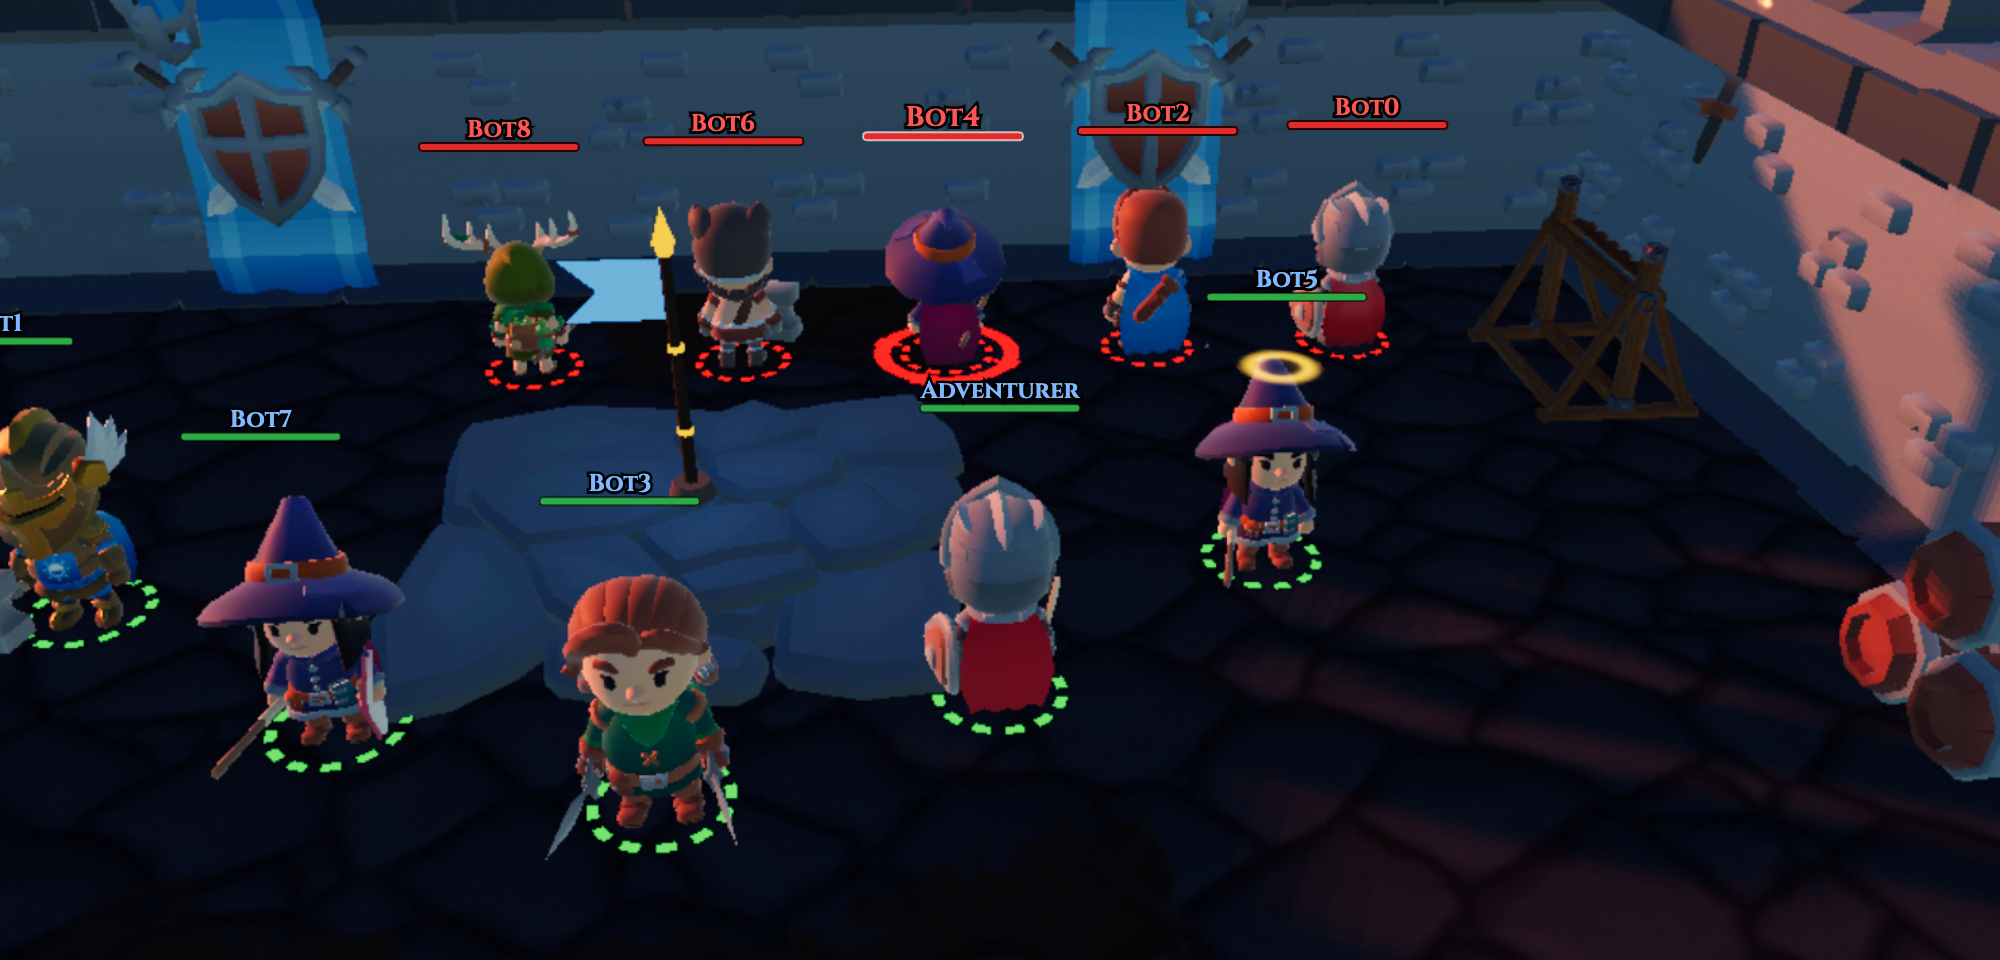
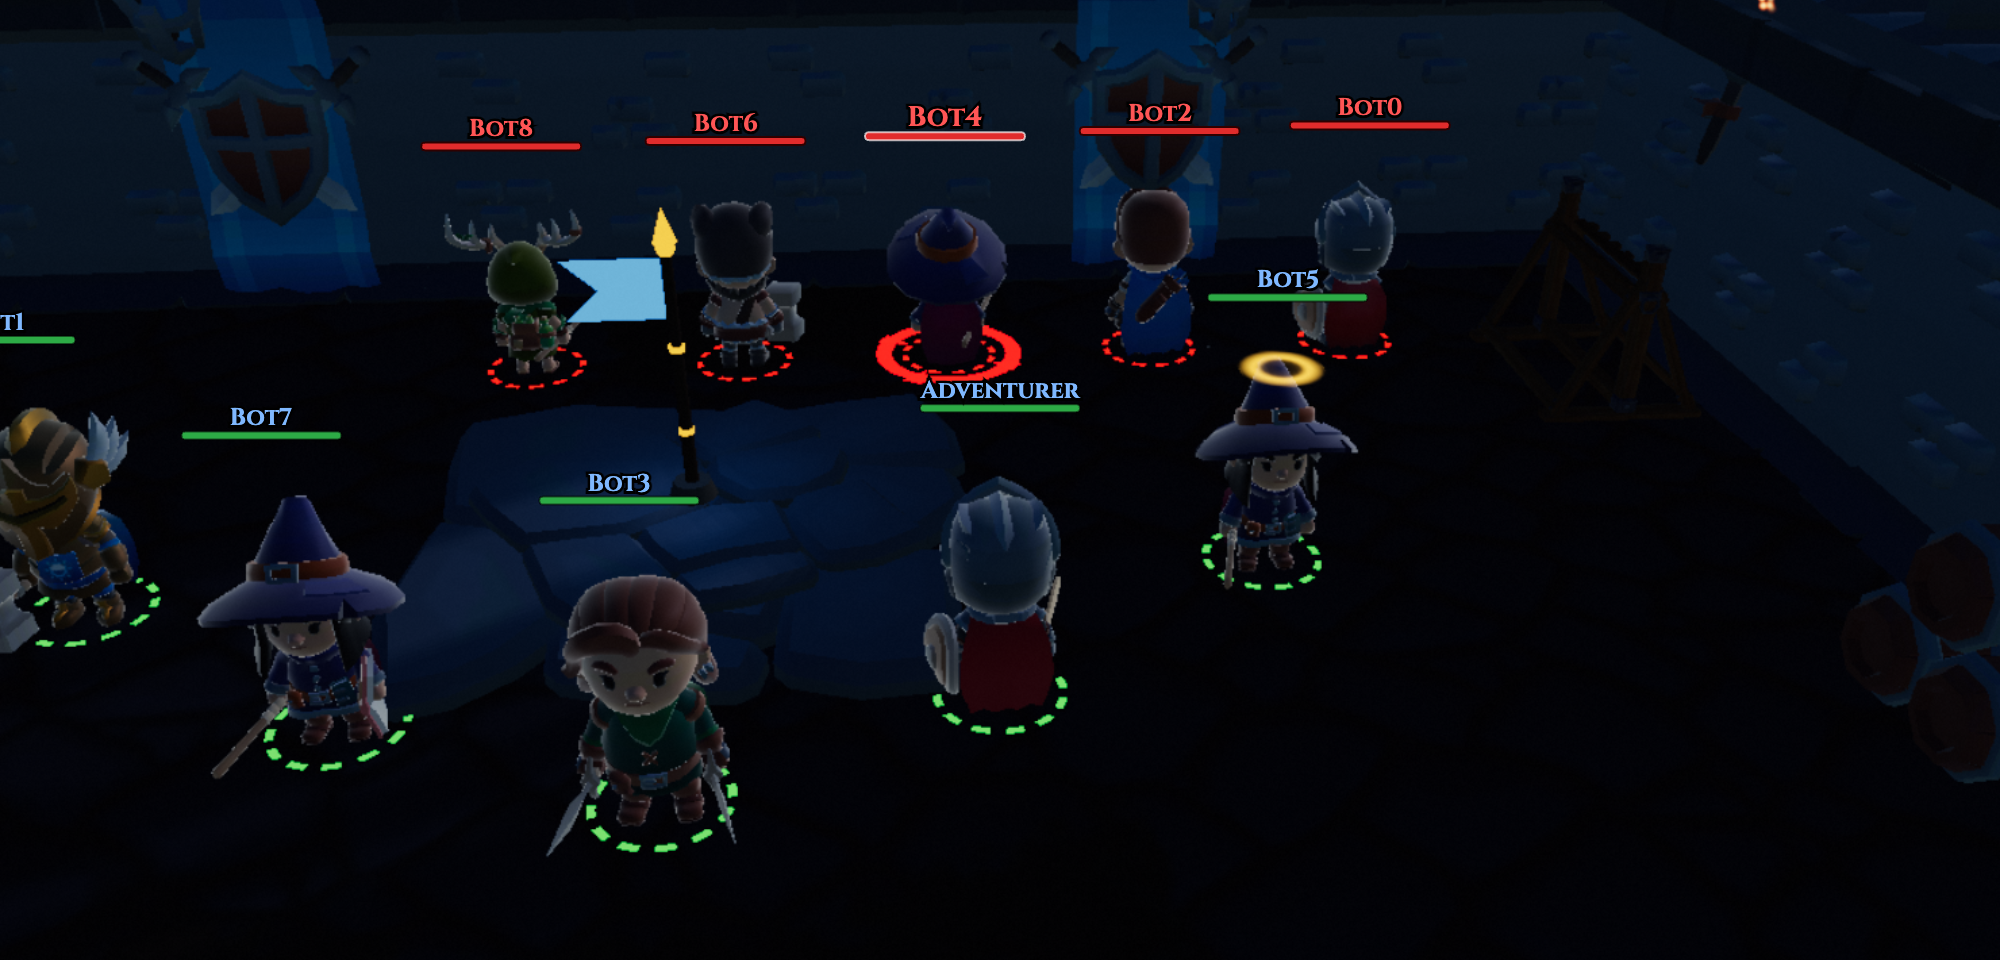
fix(render): thin the identity dashes, and drop the flag carrier ring
Two follow-ups from looking at the captured frames.

The dashed stroke goes from 0.12 to 0.09 yd, thinned inward again so the
outer edge still marks the unit's footprint. Legible at fighting distance
on every tier, but light enough to read as a hint under the feet rather
than a second reticle.

The flag's carrier ring is removed outright. It was a fourth ring at a
fighter's feet, competing with the identity and target rings this PR
exists to separate, and it was never load-bearing: the pole is already
tipped over the carrier's shoulder, which reads from any angle. The lean
is now the sole carry tell, and the tests say so instead of asserting a
ring toggle.

Screenshots re-shot for the thinner stroke, both frames recaptured under
matching light so the pair compares cleanly.

diff --git a/src/render/battleground_props.ts b/src/render/battleground_props.ts
@@ -7,13 +7,13 @@
 //
 // Graphics fairness: a carried flag's position is actionable info, so the flag
 // is plainly visible on EVERY tier (unlit pennant + pole), and the carried-state
-// dressing (the lean and the team-color carrier ring) is built and driven
+// dressing (the lean) is built and driven
 // unconditionally. High tiers only boost the pennant color for bloom pop
 // (cosmetic); the rune's point light is likewise cosmetic richness on top of
 // the always-on additive glow.
 //
 // Each built group carries `userData.bg` (BgObjectRefs): the per-frame handles
-// battleground_fx.ts animates (the flag lean pivot + carrier ring, the rune gem
+// battleground_fx.ts animates (the flag lean pivot, the rune gem
 // spinner). The refs point at child objects the renderer never touches; the
 // group's own position/rotation stay renderer-owned.
 import * as THREE from 'three';
@@ -41,9 +41,6 @@ const FLAG_GOLD = 0xd8b34a;
 const PENNANT_W = 1.15;
 const PENNANT_H = 0.75;
 const PENNANT_BLOOM_BOOST = 1.6; // high-tier color multiplier (bloom pop only)
-const CARRY_RING_INNER = 0.62;
-const CARRY_RING_OUTER = 0.95;
-const CARRY_RING_Y = 0.06;
 const RUNE_DISC_R = 1.05;
 const RUNE_DISC_Y = 0.08;
 const RUNE_GEM_SIZE = 0.42;
@@ -62,7 +59,6 @@ export type BgObjectRefs =
       team: number; // 0 = Crimson, 1 = Azure (bgInfo.match.flags index)
       color: number;
       lean: THREE.Group; // pole + pennant pivot: yawed to the carrier, tilted while carried
-      ring: THREE.Mesh; // team-color carrier ring, visible only while carried
     }
   | {
       kind: 'rune';
@@ -79,7 +75,6 @@ let flagFinialGeo: THREE.ConeGeometry | null = null;
 let flagFootGeo: THREE.CylinderGeometry | null = null;
 let flagBandGeo: THREE.CylinderGeometry | null = null;
 let flagCollarGeo: THREE.SphereGeometry | null = null;
-let carryRingGeo: THREE.RingGeometry | null = null;
 let runeDiscGeo: THREE.CircleGeometry | null = null;
 let runeGemGeo: THREE.BoxGeometry | null = null;
 
@@ -281,7 +276,9 @@ export function buildBattlegroundObject(
   // bg_flag (and any future bg_ object defaults to the flag body): pole +
   // team-color pennant, bright at every tier. The pole and pennant live on a
   // lean pivot the fx pass tips over the carrier's shoulder while carried; the
-  // ring under it flags the carrier at a glance from any angle.
+  // The carrier needs no ground ring of its own: the pole is already tipped
+  // over their shoulder, which reads from any angle, and a fourth ring at a
+  // fighter's feet only competes with the identity and target rings.
   flagPoleGeo ??= markSharedGeometry(
     new THREE.CylinderGeometry(FLAG_POLE_R * 0.85, FLAG_POLE_R * 1.15, FLAG_POLE_H, 10),
   );
@@ -306,9 +303,6 @@ export function buildBattlegroundObject(
   }
   // A spear point, not a bead: the silhouette that makes it read as a standard.
   flagFinialGeo ??= markSharedGeometry(new THREE.ConeGeometry(FLAG_FINIAL_R, FLAG_FINIAL_H, 10));
-  carryRingGeo ??= markSharedGeometry(
-    new THREE.RingGeometry(CARRY_RING_INNER, CARRY_RING_OUTER, 24),
-  );
   const lean = new THREE.Group();
   lean.rotation.order = 'YXZ'; // yaw to the carrier first, then tilt back
   const pole = new THREE.Mesh(flagPoleGeo, surfaceMat({ color: 0x4a3728, roughness: 0.85 }));
@@ -335,16 +329,11 @@ export function buildBattlegroundObject(
   finial.position.y = FLAG_POLE_H + FLAG_FINIAL_H / 2 + 0.08;
   lean.add(finial);
   group.add(lean);
-  const ring = new THREE.Mesh(carryRingGeo, glowMaterial(color));
-  ring.rotation.x = -Math.PI / 2;
-  ring.position.y = CARRY_RING_Y;
-  ring.visible = false; // battleground_fx shows it only while carried
-  group.add(ring);
   // Explicit team mapping, never a fallback: an unknown color gets NO fx refs
   // (static upright flag) rather than silently riding the wrong flag's state.
   const team = color === BG_TEAM_COLORS[0] ? 0 : color === BG_TEAM_COLORS[1] ? 1 : null;
   if (team !== null) {
-    group.userData.bg = { kind: 'flag', team, color, lean, ring } satisfies BgObjectRefs;
+    group.userData.bg = { kind: 'flag', team, color, lean } satisfies BgObjectRefs;
   }
   return { group, height: FLAG_POLE_H + FLAG_FINIAL_H + 0.2 };
 }

diff --git a/tests/battleground_fx_consumer.test.ts b/tests/battleground_fx_consumer.test.ts
@@ -2,7 +2,7 @@
 // from buildBattlegroundObject, with a burst-recording Vfx stub and a
 // hand-rolled BgInfo. This is the consumer-side coverage the pure-core test
 // (tests/battleground_fx.test.ts) cannot give: the userData.bg handshake, the
-// carrier ring toggling, lean apply/reset, gem pose application, burst
+// lean apply/reset, gem pose application, burst
 // anchors/colors per transition, and the track-invalidation rules. The BgInfo
 // fixture shape is identical for the offline Sim and the wire mirror (one
 // facet type), so a single fixture covers both worlds.
@@ -137,11 +137,10 @@ describe('BattlegroundFx.update', () => {
     expect(gem.rotation.y).toBe(spun); // early return: untouched
   });
 
-  it('toggles the carrier ring and lean with the carried state, yawed to the carrier', () => {
+  it('leans the pole over the carrier and resets it on drop, yawed to the carrier', () => {
     const h = makeHarness();
     const crimson = h.refs(h.crimsonFlag.group);
     h.fx.update(0.1);
-    expect(crimson.ring.visible).toBe(false);
     expect(crimson.lean.rotation.x).toBe(0);
     // an azure raider (pid 55) picks up the crimson flag
     const carrier = {
@@ -150,7 +149,8 @@ describe('BattlegroundFx.update', () => {
     h.views.set(55, carrier as never);
     h.sim.bgInfo = bgInfo([flagInfo('carried', 55), flagInfo('home')]);
     h.fx.update(0.2);
-    expect(crimson.ring.visible).toBe(true);
+    // The lean IS the carry tell now: the pole tips over the carrier's shoulder
+    // and there is no ground ring beneath them any more.
     expect(crimson.lean.rotation.x).toBeLessThan(0);
     expect(crimson.lean.rotation.y).toBeCloseTo(1.2, 5);
     // the pole mounts BEHIND the carrier along their facing, slightly raised
@@ -164,7 +164,6 @@ describe('BattlegroundFx.update', () => {
     // dropped: everything resets
     h.sim.bgInfo = bgInfo([flagInfo('dropped'), flagInfo('home')]);
     h.fx.update(0.4);
-    expect(crimson.ring.visible).toBe(false);
     expect(crimson.lean.rotation.x).toBe(0);
     expect(crimson.lean.rotation.y).toBe(0);
     expect(crimson.lean.position.x).toBe(0);
@@ -337,7 +336,8 @@ describe('BattlegroundFx.update', () => {
     h.sim.bgInfo = bgInfo([flagInfo('carried', 55), flagInfo('home')]);
     h.fx.update(0.3);
     expect(h.bursts).toHaveLength(0); // first sighting after the gap, silent
-    expect(h.refs(h.crimsonFlag.group).ring.visible).toBe(true); // but the ring shows
+    // but the lean applies, which is the carry tell
+    expect(h.refs(h.crimsonFlag.group).lean.rotation.x).toBeLessThan(0);
   });
 
   it('leaving the match resets tracks: re-entry never replays a stale transition', () => {

diff --git a/src/render/battleground_fx.ts b/src/render/battleground_fx.ts
@@ -56,10 +56,13 @@ export const BG_RING_ENEMY = 0xe8392b;
 // Thinner than the old 0.55-to-0.74 annulus, thinned INWARD so the mark keeps
 // its original footprint (players read the ring's outer edge as the unit's
 // ground circle) while the stroke stops competing with the reticle's weight.
-const TEAM_RING_INNER = 0.62;
+// 0.09 rather than the first pass's 0.12: still legible at fighting distance on
+// every tier, but light enough that the identity mark reads as a hint under the
+// feet instead of a second reticle.
+const TEAM_RING_INNER = 0.65;
 const TEAM_RING_OUTER = 0.74;
 // 12 dashes at a 0.55 duty: each dash is roughly 0.2 yd of arc against a 0.16 yd
-// gap, so it stays comfortably longer than the 0.12 yd stroke is thick (a dash
+// gap, so it stays comfortably longer than the 0.09 yd stroke is thick (a dash
 // shorter than it is wide reads as a dotted smear) while the gaps are wide
 // enough not to close up into a solid ring at fighting distance.
 export const BG_RING_DASH_SPEC: DashedRingSpec = {
@@ -169,7 +172,6 @@ export class BattlegroundFx {
       if (!flag) continue;
       seen[bg.team] = true;
       const carried = flag.state === 'carried';
-      bg.ring.visible = carried;
       const prev = this.tracks[bg.team];
       let yaw = 0;
       if (carried) {

diff --git a/tests/dashed_ring_core.test.ts b/tests/dashed_ring_core.test.ts
@@ -8,7 +8,7 @@ import {
   paddedOutlineDuty,
 } from '../src/render/dashed_ring_core';
 
-const SPEC: DashedRingSpec = { inner: 0.62, outer: 0.74, dashes: 12, duty: 0.55, segments: 4 };
+const SPEC: DashedRingSpec = { inner: 0.65, outer: 0.74, dashes: 12, duty: 0.55, segments: 4 };
 
 function radii(positions: Float32Array): number[] {
   const out: number[] = [];
